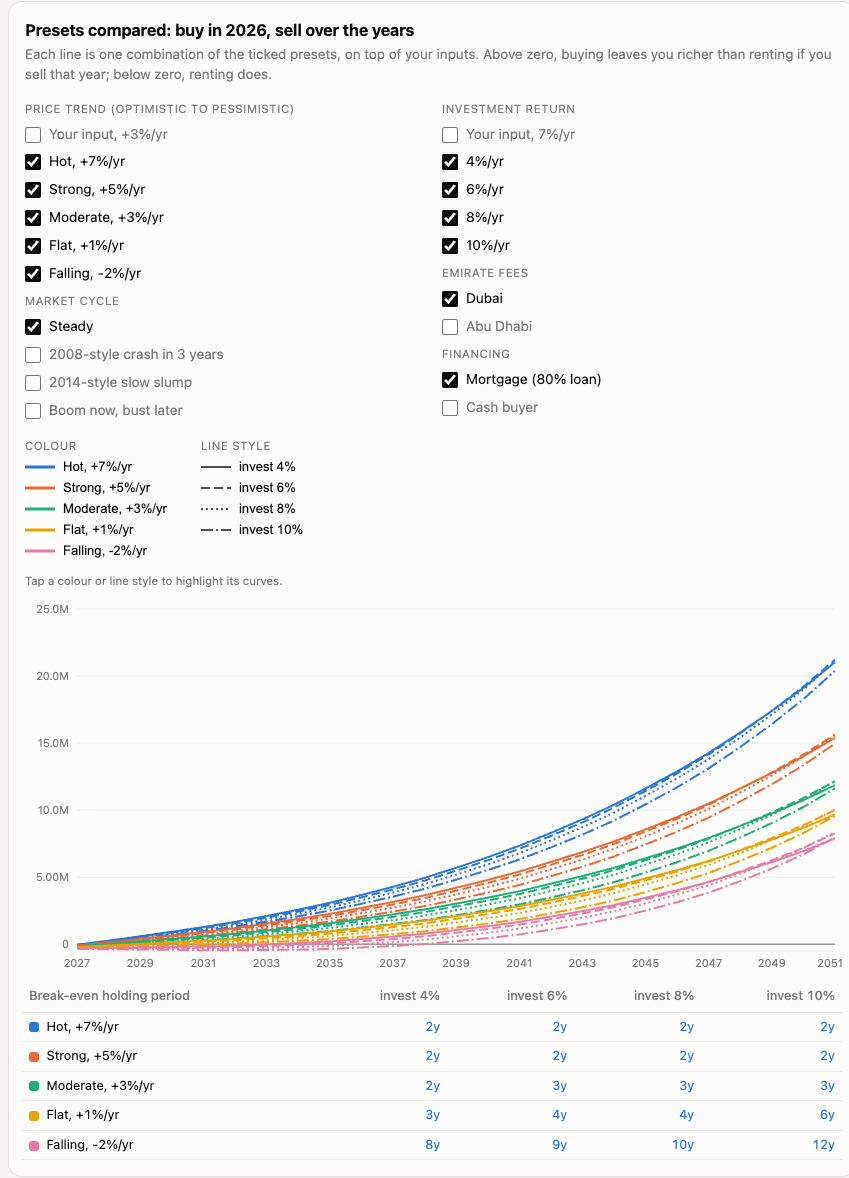
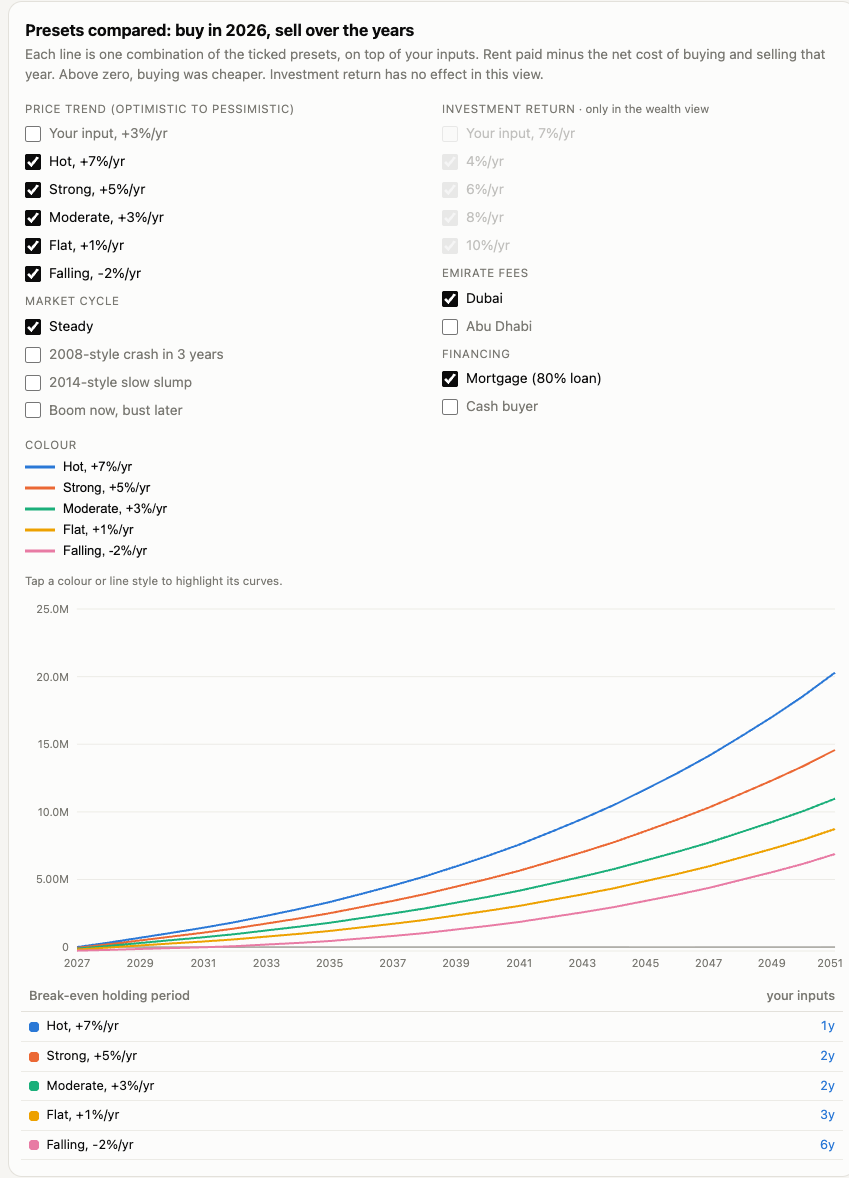
Cost-difference view (default): rent paid minus net cost of buying and selling; wealth view as toggle
Claude-Session: https://claude.ai/code/session_01SGeUVgQihc8iY5aYodmd9q

diff --git a/src/App.tsx b/src/App.tsx
@@ -3,7 +3,7 @@ import {
   Bar, BarChart, CartesianGrid, Cell, Legend, Line, LineChart, ReferenceLine, ResponsiveContainer, Tooltip, XAxis, YAxis,
 } from 'recharts';
 import {
-  DEFAULTS, PRESETS, SCENARIOS, VAT, marketPath, simulateAll, simulateBuy, type BuyResult, type Emirate, type Params, type SellRow,
+  DEFAULTS, PRESETS, SCENARIOS, VAT, breakEvenOf, marketPath, metric, simulateAll, simulateBuy, type Measure, type BuyResult, type Emirate, type Params, type SellRow,
 } from './engine';
 import { DEFAULT_CMP, initialCustom, readHash, writeHash, type AppState, type Compare, type Financing } from './state';
 import { abbr, aed, pct } from './format';
@@ -21,7 +21,8 @@ export default function App() {
   const all = useMemo(() => simulateAll(p, custom), [p, custom]);
   const X = Math.min(s.buyYear, p.maxBuyYear);
   const sel = all[X];
-  const val = (r: SellRow) => (s.real ? r.advantageReal : r.advantage);
+  const val = (r: SellRow) => metric(r, s.measure, s.real);
+  const cost = s.measure === 'cost';
 
   return (
     <div className="page">
@@ -29,10 +30,10 @@ export default function App() {
         <h1>Rent or buy, UAE</h1>
         <p className="tagline">If I buy in year X and sell in year Y, am I better off than if I had kept renting?</p>
         <p className="intro">
-          Both paths spend exactly the same money. The buyer puts cash into the down payment and fees; the renter invests
-          that cash instead. Every month, whoever spends less on housing invests the difference. When the owner sells,
-          they pay the agent, clear the mortgage and keep the rest. <b className="c-buy">Blue</b> means buying leaves you
-          richer, <b className="c-rent">orange</b> means renting does.
+          Renting costs you the rent. Buying costs you the down payment, every fee, the mortgage and the running costs,
+          minus what you get back when you sell (after the agent and paying off the loan). The charts show the gap
+          between the two: <b className="c-buy">blue</b> when buying then selling cost less than renting,{' '}
+          <b className="c-rent">orange</b> when renting was cheaper.
         </p>
       </header>
 
@@ -43,33 +44,48 @@ export default function App() {
 
         <main className="results">
           <BuyYearPicker all={all} X={X} onPick={(x) => setS((o) => ({ ...o, buyYear: x }))} />
-          <Headline r={sel} real={s.real} />
+          <div className="measure-bar">
+            <div className="seg measure" role="radiogroup" aria-label="What to compare">
+              {(['cost', 'wealth'] as Measure[]).map((m) => (
+                <button key={m} className={s.measure === m ? 'on' : ''} onClick={() => setS((o) => ({ ...o, measure: m }))}>
+                  {m === 'cost' ? 'Cost difference' : 'Wealth, investing the difference'}
+                </button>
+              ))}
+            </div>
+            <label className="toggle">
+              <input type="checkbox" checked={s.real} onChange={(e) => setS((o) => ({ ...o, real: e.target.checked }))} />
+              today's money
+            </label>
+          </div>
+          <p className="sub measure-note">
+            {cost
+              ? 'Total rent paid minus the net cost of buying then selling, in plain cash. Positive: buying was cheaper.'
+              : 'Adds the investing: the renter invests the down payment and fees, and whoever spends less each month invests the gap. Owner wealth minus renter wealth.'}
+          </p>
+          <Headline r={sel} val={val} />
 
           <section className="card">
             <h2>Presets compared: buy in {NOW + X}, sell over the years</h2>
             <p className="sub">
-              Each line is one combination of the ticked presets, on top of your inputs. Above zero, buying leaves you
-              richer than renting if you sell that year; below zero, renting does.
+              Each line is one combination of the ticked presets, on top of your inputs.{' '}
+              {cost
+                ? 'Rent paid minus the net cost of buying and selling that year. Above zero, buying was cheaper. Investment return has no effect in this view.'
+                : 'Owner wealth minus renter wealth if you sell that year. Above zero, buying leaves you richer.'}
             </p>
             <PresetCompare
               p={p}
               custom={custom}
               X={X}
-              real={s.real}
+              val={val}
+              noReturn={cost}
               cmp={s.cmp}
               setCmp={(cmp) => setS((o) => ({ ...o, cmp }))}
             />
           </section>
 
           <section className="card">
-            <div className="card-head">
-              <h2>Buy in {NOW + X}, sell in year…</h2>
-              <label className="toggle">
-                <input type="checkbox" checked={s.real} onChange={(e) => setS((o) => ({ ...o, real: e.target.checked }))} />
-                today's money
-              </label>
-            </div>
-            <p className="sub">Wealth if you bought, minus wealth if you kept renting, at the moment you sell.</p>
+            <h2>Buy in {NOW + X}, sell in year…</h2>
+            <p className="sub">{cost ? 'Rent paid minus net cost of buying then selling, by sell year.' : 'Wealth if you bought, minus wealth if you kept renting, at the moment you sell.'}</p>
             <AdvantageChart r={sel} val={val} />
           </section>
 
@@ -83,8 +99,8 @@ export default function App() {
 
           <section className="card">
             <h2>Year by year, buying in {NOW + X}</h2>
-            <p className="sub">All amounts in AED at the time of sale{s.real ? ', advantage also in today\'s money' : ''}.</p>
-            <SellTable r={sel} real={s.real} />
+            <p className="sub">Cumulative AED at the time of sale. Last column follows the selected view{s.real ? ", in today's money" : ''}.</p>
+            <SellTable r={sel} val={val} />
           </section>
 
           <section className="card">
@@ -126,21 +142,22 @@ function BuyYearPicker({ all, X, onPick }: { all: BuyResult[]; X: number; onPick
   );
 }
 
-function Headline({ r, real }: { r: BuyResult; real: boolean }) {
+function Headline({ r, val }: { r: BuyResult; val: (x: SellRow) => number }) {
   const pick = (h: number) => r.rows.find((x) => x.held === h);
-  const v = (x?: SellRow) => (x ? (real ? x.advantageReal : x.advantage) : 0);
+  const v = (x?: SellRow) => (x ? val(x) : 0);
+  const be = breakEvenOf(r.rows, val);
   const marks = [1, 3, 5, 10, 20].filter((h) => pick(h));
   return (
     <section className="headline">
       <div className="verdict">
-        {r.breakEven == null ? (
+        {be == null ? (
           <>Buying in {NOW + r.buyYear} <b className="c-rent">never catches up</b> with renting within {r.rows.length} years.</>
-        ) : r.breakEven === 1 ? (
+        ) : be === 1 ? (
           <>Buying in {NOW + r.buyYear} <b className="c-buy">wins from the first year</b>.</>
         ) : (
           <>
-            Buying in {NOW + r.buyYear} beats renting if you keep it <b className="c-buy">{r.breakEven} years or more</b>{' '}
-            (sell in {NOW + r.buyYear + r.breakEven} or later).
+            Buying in {NOW + r.buyYear} beats renting if you keep it <b className="c-buy">{be} years or more</b>{' '}
+            (sell in {NOW + r.buyYear + be} or later).
           </>
         )}
       </div>
@@ -207,8 +224,8 @@ function DashSwatch({ dash, color = 'currentColor', width = 2 }: { dash: string;
 }
 
 function PresetCompare({
-  p, custom, X, real, cmp, setCmp,
-}: { p: Params; custom: number[]; X: number; real: boolean; cmp: Compare; setCmp: (c: Compare) => void }) {
+  p, custom, X, val, noReturn, cmp, setCmp,
+}: { p: Params; custom: number[]; X: number; val: (r: SellRow) => number; noReturn: boolean; cmp: Compare; setCmp: (c: Compare) => void }) {
   const toggle = <K extends keyof Compare>(k: K, v: string) => {
     const cur = cmp[k] as string[];
     setCmp({ ...cmp, [k]: cur.includes(v) ? cur.filter((x) => x !== v) : [...cur, v] });
@@ -217,7 +234,9 @@ function PresetCompare({
   const scenarios = SCENARIOS.filter((x) => x.key !== 'custom' || p.scenario === 'custom');
   const trendKeys = ['in', ...TRENDS.map(String)].filter((k) => cmp.g.includes(k));
   const scKeys = scenarios.map((x) => x.key).filter((k) => cmp.sc.includes(k));
-  const retKeys = ['in', ...RETURNS.map(String)].filter((k) => cmp.r.includes(k));
+  // the cash view ignores investing, so every return would draw the same curve: keep one
+  const retTicked = ['in', ...RETURNS.map(String)].filter((k) => cmp.r.includes(k));
+  const retKeys = noReturn ? retTicked.slice(0, 1).map(() => 'in') : retTicked;
   const emKeys = (['DXB', 'AUH'] as Emirate[]).filter((e) => cmp.em.includes(e));
   const finKeys = (['loan', 'cash'] as Financing[]).filter((f) => cmp.fin.includes(f));
   const trendVal = (k: string) => (k === 'in' ? p.priceGrowth : Number(k));
@@ -247,7 +266,7 @@ function PresetCompare({
           downPct: fin === 'cash' ? 1 : p.downPct,
         };
         const styleName = [
-          retKeys.length > 1 || r !== 'in' ? retLabel(r) : '',
+          !noReturn && (retKeys.length > 1 || r !== 'in') ? retLabel(r) : '',
           emKeys.length > 1 || em !== p.emirate ? EM_LABEL[em] : '',
           finKeys.length > 1 || fin !== 'loan' ? FIN_LABEL[fin] : '',
         ].filter(Boolean).join(' · ') || 'your inputs';
@@ -266,19 +285,16 @@ function PresetCompare({
       });
     });
     return out;
-  }, [p, custom, X, cmp]);
+  }, [p, custom, X, cmp, noReturn]);
 
   const colors = [...new Map(series.map((s) => [s.colorKey, s])).values()];
   const styles = [...new Map(series.map((s) => [s.styleKey, s])).values()];
-  const v = (r: SellRow) => (real ? r.advantageReal : r.advantage);
+  const v = val;
   const all = series.flatMap((s) => s.rows.map(v));
   const lo = Math.min(0, ...all);
   const ticks = niceTicks(lo, Math.max(0, ...all)).filter((t) => t >= lo || t === 0);
   const yDomain = [Math.min(lo * 1.1, ticks[0]), ticks[ticks.length - 1]];
-  const breakEven = (rows: SellRow[]) => {
-    const i = rows.findIndex((_, j) => rows.slice(j).every((x) => x.advantage > 0));
-    return i < 0 ? null : rows[i].held;
-  };
+  const breakEven = (rows: SellRow[]) => breakEvenOf(rows, v);
   const dim = (s: Series) => focus != null && s.colorKey !== focus && s.styleKey !== focus;
 
   const data = (series[0]?.rows ?? []).map((row, i) => {
@@ -308,8 +324,10 @@ function PresetCompare({
           ))}
         </div>
         <div className="cmp-g">
-          <div className="cmp-h">Investment return</div>
-          {['in', ...RETURNS.map(String)].map((k) => (
+          <div className="cmp-h">Investment return{noReturn && <span className="cmp-off"> · only in the wealth view</span>}</div>
+          {['in', ...RETURNS.map(String)].map((k) => noReturn ? (
+            <label key={k} className="cbx off"><input type="checkbox" disabled checked={cmp.r.includes(k)} readOnly />{k === 'in' ? `Your input, ${pct(p.investReturn)}/yr` : `${pct(Number(k))}/yr`}</label>
+          ) : (
             <Box key={k} on={cmp.r.includes(k)} label={k === 'in' ? `Your input, ${pct(p.investReturn)}/yr` : `${pct(Number(k))}/yr`} onClick={() => toggle('r', k)} />
           ))}
           <div className="cmp-h">Emirate fees</div>
@@ -488,7 +506,7 @@ function Heatmap({ all, X, val, onPick }: { all: BuyResult[]; X: number; val: (x
                   <td
                     key={x.held}
                     style={{ background: cellColor(val(x), max) }}
-                    className={b.breakEven === x.held ? 'be' : ''}
+                    className={breakEvenOf(b.rows, val) === x.held ? 'be' : ''}
                     onMouseEnter={() => setHover({ b: b.buyYear, h: x.held })}
                     onTouchStart={() => setHover({ b: b.buyYear, h: x.held })}
                   />
@@ -508,31 +526,34 @@ function Heatmap({ all, X, val, onPick }: { all: BuyResult[]; X: number; val: (x
   );
 }
 
-function SellTable({ r, real }: { r: BuyResult; real: boolean }) {
+function SellTable({ r, val }: { r: BuyResult; val: (x: SellRow) => number }) {
+  const be = breakEvenOf(r.rows, val);
+  const sign = (n: number) => `${n >= 0 ? '+' : ''}${abbr(n)}`;
   return (
     <div className="table-wrap">
       <table className="grid">
         <thead>
           <tr>
-            <th>Sell</th><th>Held</th><th>Sale price</th><th>Selling costs</th><th>Loan left</th><th>Net from sale</th>
-            <th>Owner's savings</th><th>Owner total</th><th>Renter total</th><th>Buy vs rent</th>
-            {real && <th>in today's AED</th>}
+            <th>Sell</th><th>Held</th><th>Rent paid</th><th>Paid out buying</th><th>Sale price</th><th>Selling costs</th>
+            <th>Loan left</th><th>Net from sale</th><th>Net cost of buying</th><th>Cost difference</th><th>Wealth difference</th>
+            <th>Shown</th>
           </tr>
         </thead>
         <tbody>
           {r.rows.map((x) => (
-            <tr key={x.held} className={r.breakEven === x.held ? 'be' : ''}>
+            <tr key={x.held} className={be === x.held ? 'be' : ''}>
               <td>{NOW + x.sellYear}</td>
               <td>{x.held}y</td>
+              <td>{abbr(x.rentCost)}</td>
+              <td>{abbr(x.buyCost + x.netProceeds)}</td>
               <td>{abbr(x.salePrice)}</td>
               <td>−{abbr(x.sellCosts)}</td>
               <td>{x.loanLeft >= 1 ? `−${abbr(x.loanLeft)}` : '0'}</td>
               <td>{abbr(x.netProceeds)}</td>
-              <td>{abbr(x.ownerPortfolio)}</td>
-              <td>{abbr(x.ownerWealth)}</td>
-              <td>{abbr(x.renterWealth)}</td>
-              <td className={x.advantage >= 0 ? 'c-buy b' : 'c-rent b'}>{x.advantage >= 0 ? '+' : ''}{abbr(x.advantage)}</td>
-              {real && <td className={x.advantageReal >= 0 ? 'c-buy' : 'c-rent'}>{x.advantageReal >= 0 ? '+' : ''}{abbr(x.advantageReal)}</td>}
+              <td>{abbr(x.buyCost)}</td>
+              <td className={x.costDiff >= 0 ? 'c-buy' : 'c-rent'}>{sign(x.costDiff)}</td>
+              <td className={x.advantage >= 0 ? 'c-buy' : 'c-rent'}>{sign(x.advantage)}</td>
+              <td className={val(x) >= 0 ? 'c-buy b' : 'c-rent b'}>{sign(val(x))}</td>
             </tr>
           ))}
         </tbody>
@@ -830,7 +851,7 @@ function Inputs({ s, setS, set }: { s: AppState; setS: (f: (o: AppState) => AppS
 
       <button
         className="reset"
-        onClick={() => setS(() => ({ p: { ...DEFAULTS }, custom: initialCustom(DEFAULTS), buyYear: 0, real: false, cmp: DEFAULT_CMP }))}
+        onClick={() => setS(() => ({ p: { ...DEFAULTS }, custom: initialCustom(DEFAULTS), buyYear: 0, real: false, measure: 'cost', cmp: DEFAULT_CMP }))}
       >
         Reset everything
       </button>

diff --git a/src/engine.ts b/src/engine.ts
@@ -235,6 +235,11 @@ export interface SellRow {
   renterWealth: number;
   advantage: number; // owner - renter, nominal AED at Y
   advantageReal: number; // in today's AED
+  // plain cash view, no investing: what each path cost you in total by year Y
+  rentCost: number; // rent + housing fee + moves
+  buyCost: number; // down payment + fees + mortgage + running costs - net sale proceeds
+  costDiff: number; // rentCost - buyCost: positive = buying and selling cost less than renting
+  costDiffReal: number; // same, every flow deflated to today's money
   // cumulative spend X..Y, for the breakdown
   paidInterest: number;
   paidPrincipal: number;
@@ -273,6 +278,8 @@ export function simulateBuy(p: Params, X: number, custom: number[]): BuyResult {
   let owner = 0;
   let renter = costs.upfront;
   let paidInterest = 0, paidPrincipal = 0, paidOwnerCosts = 0, paidRent = 0;
+  const defl = (t: number) => Math.pow(1 + p.inflation, -t / 12); // today's money
+  let ownerCash = costs.upfront, ownerCashReal = costs.upfront * defl(X * 12), rentReal = 0;
   const rows: SellRow[] = [];
 
   for (let m = 0; m < p.maxHold * 12; m++) {
@@ -309,6 +316,9 @@ export function simulateBuy(p: Params, X: number, custom: number[]): BuyResult {
       renterOut += annualRent * p.rentAgentPct * (1 + VAT) + p.moveCost;
     }
     paidRent += renterOut;
+    ownerCash += ownerOut;
+    ownerCashReal += ownerOut * defl(t);
+    rentReal += renterOut * defl(t);
 
     // both portfolios grow, then whoever spent less invests the difference
     owner *= 1 + invMonthly;
@@ -325,6 +335,8 @@ export function simulateBuy(p: Params, X: number, custom: number[]): BuyResult {
       const netProceeds = salePrice - sellCosts - balance;
       const ownerWealth = owner + netProceeds;
       const advantage = ownerWealth - renter;
+      const buyCost = ownerCash - netProceeds;
+      const buyCostReal = ownerCashReal - netProceeds * defl(t + 1);
       rows.push({
         sellYear: Y,
         held: Y - X,
@@ -337,6 +349,10 @@ export function simulateBuy(p: Params, X: number, custom: number[]): BuyResult {
         renterWealth: renter,
         advantage,
         advantageReal: advantage / Math.pow(1 + p.inflation, Y),
+        rentCost: paidRent,
+        buyCost,
+        costDiff: paidRent - buyCost,
+        costDiffReal: rentReal - buyCostReal,
         paidInterest,
         paidPrincipal,
         paidOwnerCosts,
@@ -351,6 +367,24 @@ export function simulateBuy(p: Params, X: number, custom: number[]): BuyResult {
     else break;
   }
   return { buyYear: X, price, rent: p.rent * rIdxYear[X], costs, monthlyPayment: firstPay, rows, breakEven };
+}
+
+export type Measure = 'cost' | 'wealth';
+
+/** The number every chart plots: positive = buying wins. */
+export function metric(r: SellRow, m: Measure, real: boolean): number {
+  if (m === 'cost') return real ? r.costDiffReal : r.costDiff;
+  return real ? r.advantageReal : r.advantage;
+}
+
+/** First holding period from which buying wins and keeps winning, or null. */
+export function breakEvenOf(rows: SellRow[], f: (r: SellRow) => number): number | null {
+  let be: number | null = null;
+  for (let i = rows.length - 1; i >= 0; i--) {
+    if (f(rows[i]) > 0) be = rows[i].held;
+    else break;
+  }
+  return be;
 }
 
 export function simulateAll(p: Params, custom: number[]): BuyResult[] {

diff --git a/src/state.ts b/src/state.ts
@@ -1,4 +1,4 @@
-import { DEFAULTS, PRESETS, type Emirate, type Params, type ScenarioKey } from './engine';
+import { DEFAULTS, PRESETS, type Emirate, type Measure, type Params, type ScenarioKey } from './engine';
 
 export type Financing = 'loan' | 'cash';
 export interface Compare {
@@ -18,6 +18,7 @@ export interface AppState {
   custom: number[]; // per-year price growth for the custom scenario
   buyYear: number;
   real: boolean; // show today's money
+  measure: Measure; // cash cost difference (default) or wealth incl. investing
   cmp: Compare; // which presets the comparison chart combines
 }
 
@@ -39,6 +40,7 @@ export function readHash(): AppState {
     custom,
     buyYear: Number(q.get('x') ?? 0),
     real: q.get('real') === '1',
+    measure: q.get('m') === 'wealth' ? 'wealth' : 'cost',
     cmp: q.get('cmp') ? parseCmp(q.get('cmp')!) : { ...DEFAULT_CMP, em: [p.emirate] },
   };
 }
@@ -52,6 +54,7 @@ export function writeHash(s: AppState) {
   if (s.p.scenario === 'custom') q.set('path', s.custom.map((g) => +g.toFixed(4)).join(','));
   if (s.buyYear) q.set('x', String(s.buyYear));
   if (s.real) q.set('real', '1');
+  if (s.measure === 'wealth') q.set('m', 'wealth');
   const cmpDefault = { ...DEFAULT_CMP, em: [s.p.emirate] };
   if (JSON.stringify(s.cmp) !== JSON.stringify(cmpDefault)) q.set('cmp', [s.cmp.em, s.cmp.sc, s.cmp.fin, s.cmp.g, s.cmp.r].map((x) => x.join('_')).join('~'));
   const h = q.toString();

diff --git a/src/styles.css b/src/styles.css
@@ -190,3 +190,9 @@ h2 { font-size: 1.02rem; margin: 0 0 4px; letter-spacing: -0.01em; }
 .key { display: flex; align-items: center; gap: 8px; border: 0; background: none; color: var(--text); font-size: 0.82rem; padding: 3px 6px; margin-left: -6px; border-radius: 6px; cursor: pointer; text-align: left; }
 .key.on { background: var(--hover); font-weight: 600; }
 .key .dashsw { color: var(--text2); }
+.measure-bar { display: flex; align-items: center; justify-content: space-between; gap: 12px; flex-wrap: wrap; }
+.seg.measure { flex: 1; max-width: 520px; background: var(--panel); }
+.seg.measure button.on { background: var(--accent); color: var(--bg); }
+.measure-note { margin: -8px 0 0; }
+.cbx.off { opacity: .45; cursor: default; }
+.cmp-off { text-transform: none; letter-spacing: 0; }

diff --git a/README.md b/README.md
@@ -19,7 +19,15 @@ modelled on the UAE's real cycles. Every value is editable and every scenario is
   break-even holding period.
 - **Year-by-year table**: sale price, selling costs, loan left, net proceeds, both portfolios.
 
-## The math
+## Two views
+
+- **Cost difference** (default): plain cash, no investing. Rent paid (rent + housing fee + agent
+  fees and moves) minus the net cost of buying then selling (down payment + every purchase fee +
+  mortgage payments + service charge, maintenance, insurance, housing fee − net sale proceeds).
+  Positive = buying then selling cost less than renting.
+- **Wealth, investing the difference**: the method below.
+
+## The math (wealth view)
 
 Both paths are identical until year X, so the comparison starts at X with the market's price and
 rent at that point.
